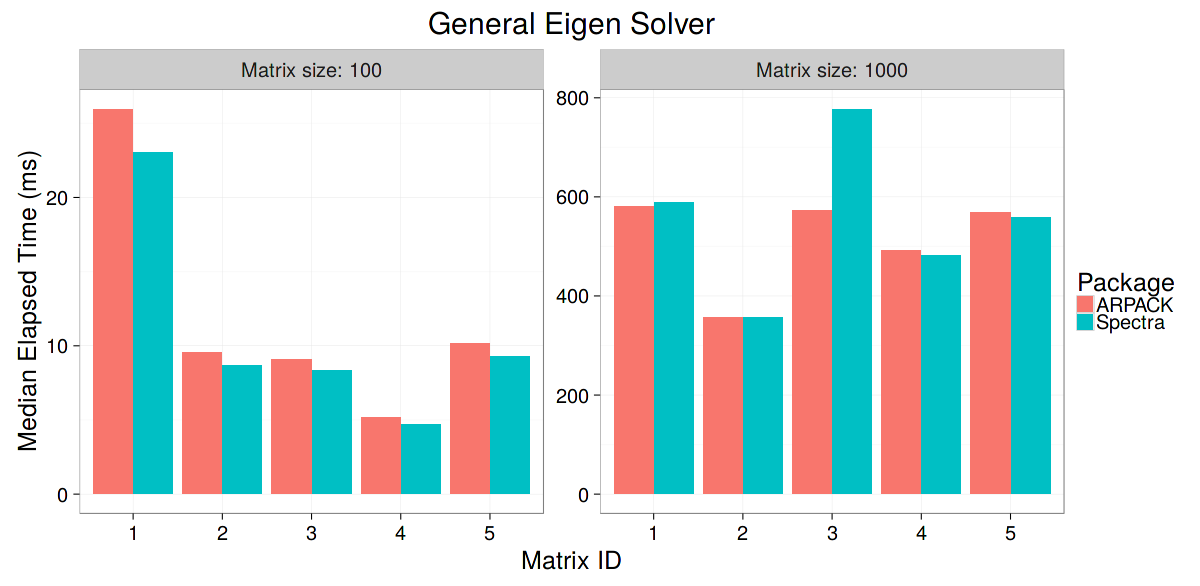
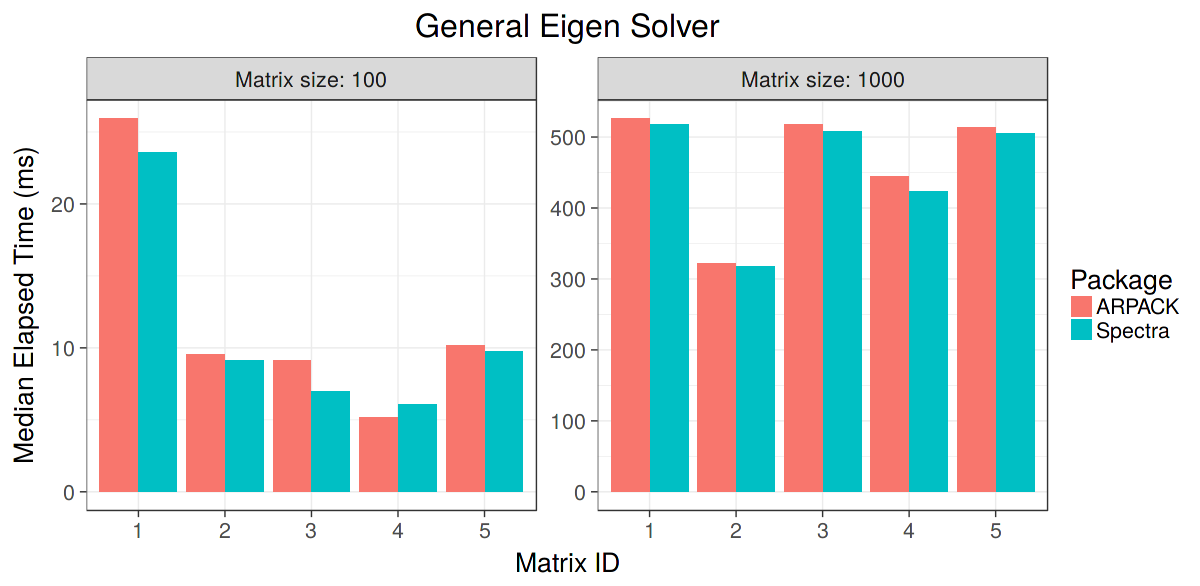
update project page

Changed region(s): [[0.0, 0.0, 0.9867, 0.9215], [0.4317, 0.9215, 0.5242, 0.9829]]

diff --git a/download.md b/download.md
@@ -12,15 +12,15 @@ To use Spectra, since it is a header-only library, all you need are the
 header files contained in the source package. You also need the header files
 of Eigen as dependency.
 
-<a href="https://github.com/yixuan/spectra/archive/v0.2.0.tar.gz">
+<a href="https://github.com/yixuan/spectra/archive/v0.5.0.tar.gz">
 <button type="button" class="btn btn-success btn-sm">
-<span class="glyphicon glyphicon-download"></span> Download Spectra 0.2.0
+<span class="glyphicon glyphicon-download"></span> Download Spectra 0.5.0
 </button>
 </a>
 
-<a href="http://bitbucket.org/eigen/eigen/get/3.2.8.tar.gz">
+<a href="http://bitbucket.org/eigen/eigen/get/3.3.2.tar.gz">
 <button type="button" class="btn btn-success btn-sm">
-<span class="glyphicon glyphicon-download"></span> Download Eigen 3.2.8
+<span class="glyphicon glyphicon-download"></span> Download Eigen 3.3.2
 </button>
 </a>
 

diff --git a/performance.md b/performance.md
@@ -16,9 +16,9 @@ libraries, based on the following environment setting:
 <h4><span class="label label-success">Software</span></h4>
 
 - OS: Fedora 24 64-bit
-- Compiler: GCC 6.1.1 with flag `g++ -Wall -O2 -mtune=native -mavx`
-- Spectra: version 0.2.0
-- BLAS: OpenBLAS 0.2.18, single threaded
+- Compiler: GCC 6.3.1 with flag `g++ -Wall -O2 -mtune=native -mavx`
+- Spectra: version 0.5.0
+- BLAS: OpenBLAS 0.2.19, single threaded
 - ARPACK: ARPACK-NG 3.3.0
 - R: version 3.3.0
 - R packages

diff --git a/quick-start.md b/quick-start.md
@@ -57,6 +57,8 @@ with a real-valued shift
 - [GenEigsComplexShiftSolver](http://yixuan.cos.name/spectra/doc/classSpectra_1_1GenEigsRealShiftSolver.html):
 For general real matrices using the shift-and-invert mode,
 with a complex-valued shift
+- [SymGEigsSolver](http://yixuan.cos.name/spectra/doc/classSpectra_1_1SymGEigsSolver.html):
+For generalized eigen solver for real symmetric matrices
 
 ### Examples
 
